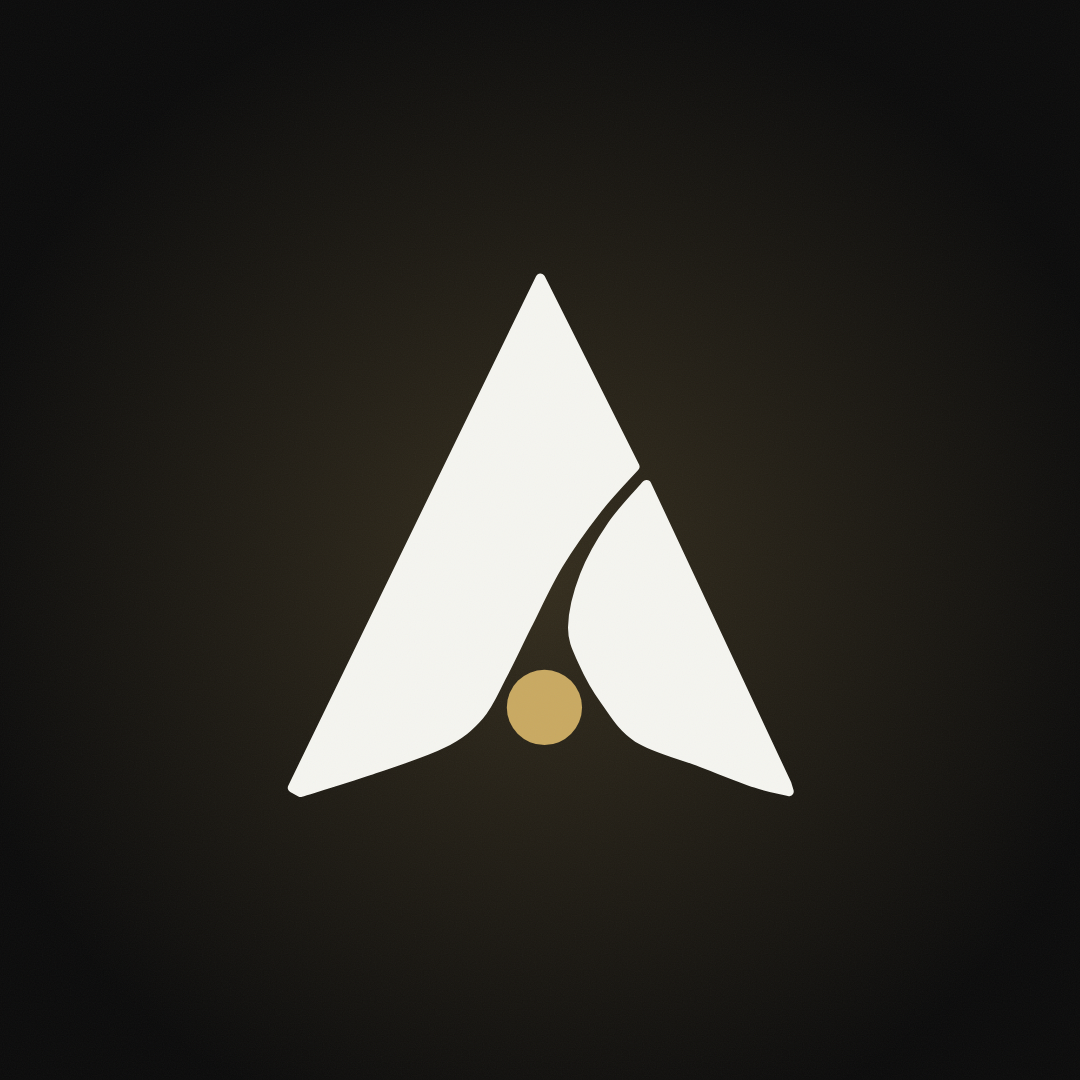
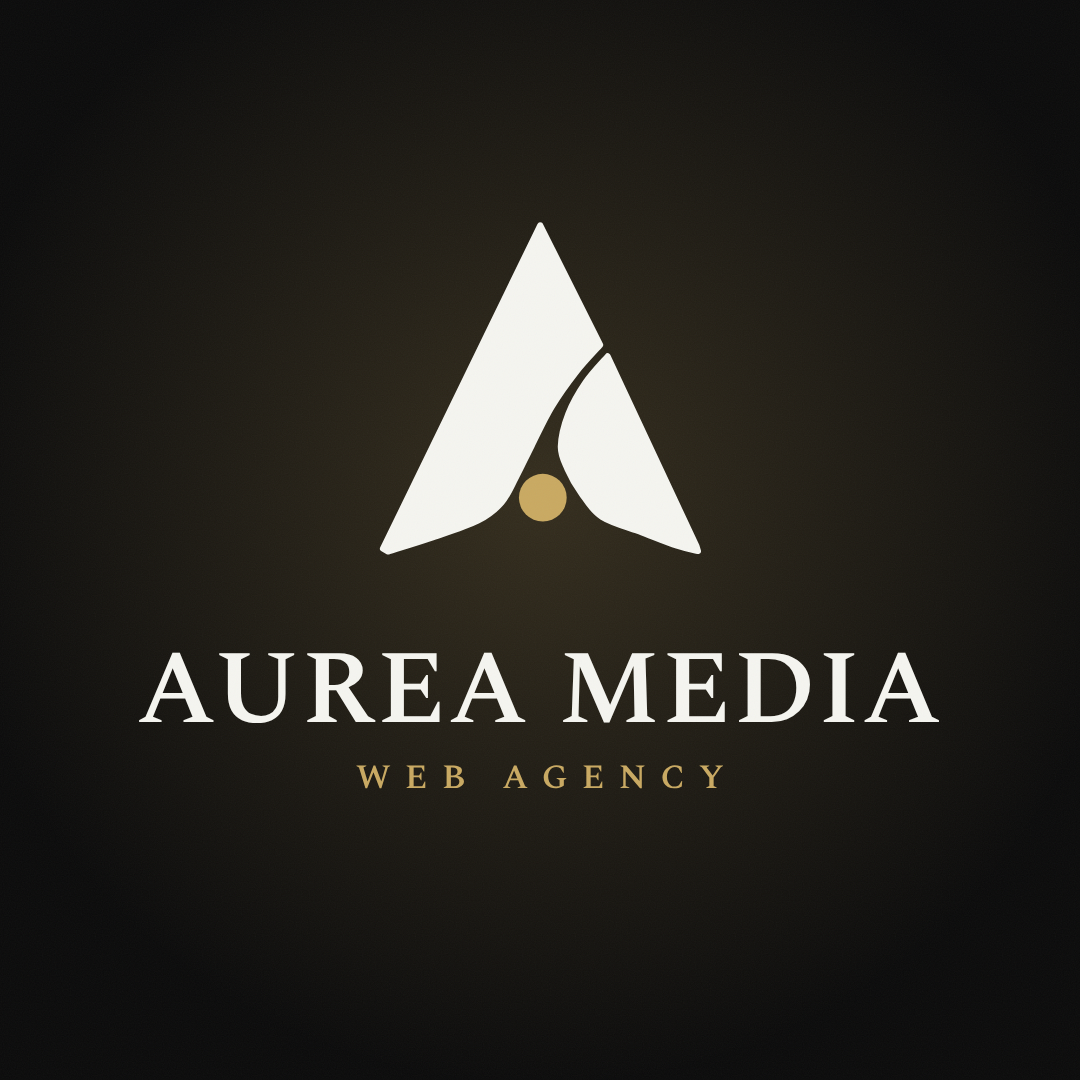
Kit réseaux sociaux : bannières LinkedIn refaites (note Google, 45 sites, Dual Tech), photo de profil avec le logotype AUREA MEDIA
Claude-Session: https://claude.ai/code/session_01QEecSGPaSS2i4pfHtVUcyd

Changed region(s): [[0.1222, 0.2139, 0.8861, 0.7333]]

diff --git a/aurea-media/reseaux-sociaux/sources/kit.html b/aurea-media/reseaux-sociaux/sources/kit.html
@@ -4,6 +4,12 @@
 /* Kit réseaux sociaux Aurea Media : chaque visuel est un bloc .v rendu à ses dimensions exactes (voir exporter-kit.js). */
 @font-face{font-family:"Bricolage";src:url(bricolage-grotesque.woff2) format("woff2");font-weight:200 800}
 @font-face{font-family:"Geist";src:url(geist.woff2) format("woff2");font-weight:100 900}
+@font-face{font-family:"Spectral SC";src:url(spectral-sc-600.woff2) format("woff2");font-weight:600}   /* police du logotype (Google Fonts, OFL) */
+.logotype{font-family:"Spectral SC",serif;font-weight:600;letter-spacing:.02em;color:var(--cream);white-space:nowrap}
+.baseline{font-family:"Spectral SC",serif;font-weight:600;letter-spacing:.42em;color:var(--gold);white-space:nowrap}
+.stat{display:flex;align-items:center;gap:18px}
+.stat b{font-family:Bricolage,sans-serif;font-weight:650;letter-spacing:-.03em;line-height:1}
+.persp{transform-style:preserve-3d}
 :root{--ink:#0A0A0A;--ink2:#121211;--ink3:#191917;--cream:#F5F5F0;--mute:#AEAEA8;--gold:#C9A961;--gold2:#B8934E;--line:rgba(245,245,240,.10);--ok:#2F9E6E}
 *{box-sizing:border-box}html,body{margin:0;background:#333}
 .v{position:relative;overflow:hidden;background:var(--ink);color:var(--cream);font-family:Geist,sans-serif;display:none}
@@ -34,12 +40,21 @@
 
 <!-- ============ PHOTO DE PROFIL (Instagram, Facebook, LinkedIn) 1080 x 1080 ============ -->
 <section class="v" id="avatar" style="width:1080px;height:1080px">
+  <div class="halo" style="width:1300px;height:1300px;left:-110px;top:-160px"></div>
+  <img class="mark" src="logo-monogramme-clair.svg" style="position:absolute;width:330px;left:375px;top:215px">
+  <div class="logotype" style="position:absolute;left:0;right:0;top:612px;text-align:center;font-size:104px">AUREA MEDIA</div>
+  <div class="baseline" style="position:absolute;left:0;right:0;top:752px;text-align:center;font-size:34px;padding-left:.42em">WEB AGENCY</div>
+  <div class="grain"></div>
+</section>
+<section class="v" id="avatar-monogramme" style="width:1080px;height:1080px">
   <div class="halo" style="width:1300px;height:1300px;left:-110px;top:-80px"></div>
   <img class="mark" src="logo-monogramme-clair.svg" style="position:absolute;width:520px;left:280px;top:262px">
   <div class="grain"></div>
 </section>
 <section class="v" id="avatar-clair" style="width:1080px;height:1080px;background:#F5F5F0">
-  <img class="mark" src="logo-monogramme-encre.svg" style="position:absolute;width:520px;left:280px;top:262px">
+  <img class="mark" src="logo-monogramme-encre.svg" style="position:absolute;width:330px;left:375px;top:215px">
+  <div class="logotype" style="position:absolute;left:0;right:0;top:612px;text-align:center;font-size:104px;color:#0A0A0A">AUREA MEDIA</div>
+  <div class="baseline" style="position:absolute;left:0;right:0;top:752px;text-align:center;font-size:34px;padding-left:.42em;color:#9a7a36">WEB AGENCY</div>
 </section>
 
 <!-- ============ FACEBOOK : COUVERTURE 1640 x 624 (zone sûre mobile : 280 à 1360 px) ============ -->
@@ -59,31 +74,40 @@
   <div class="grain"></div>
 </section>
 
-<!-- ============ LINKEDIN : BANNIÈRE DE PAGE ENTREPRISE 1128 x 191 ============ -->
-<section class="v" id="linkedin-page" style="width:1128px;height:191px">
-  <div class="halo" style="width:900px;height:900px;left:560px;top:-420px"></div>
-  <div style="position:absolute;left:300px;top:44px">
-    <div class="titre" style="font-size:38px">Des sites qui <span class="or">travaillent</span> pendant que vous travaillez.</div>
-    <div class="mute" style="font-size:17px;margin-top:12px">Création de sites vitrines et e-commerce sur mesure · Paris · depuis 2021</div>
+<!-- ============ LINKEDIN : BANNIÈRE DU PROFIL D'ALEXANDRE 1584 x 396 (photo en bas à gauche : x < 470 laissé libre) ============ -->
+<section class="v" id="linkedin-profil" style="width:1584px;height:396px">
+  <div class="halo" style="width:1100px;height:1100px;left:960px;top:-360px;background:radial-gradient(circle,rgba(47,109,246,.28),rgba(47,109,246,0) 62%)"></div>
+  <div class="halo" style="width:1000px;height:1000px;left:220px;top:-520px"></div>
+  <div style="position:absolute;left:500px;top:52px;width:560px">
+    <div class="titre" style="font-size:50px">Des sites qui vous <span class="or">apportent</span> des clients.</div>
+    <div style="display:flex;gap:16px;margin-top:30px">
+      <div class="stat" style="border:1px solid rgba(201,169,97,.35);background:rgba(201,169,97,.07);border-radius:22px;padding:16px 22px"><svg viewBox="0 0 48 48" style="width:44px;height:44px;flex:none"><path fill="#FFC107" d="M43.6 20.5H42V20H24v8h11.3C33.7 32.7 29.2 36 24 36c-6.6 0-12-5.4-12-12s5.4-12 12-12c3.1 0 5.8 1.2 7.9 3.1l5.7-5.7C34 6.1 29.3 4 24 4 12.9 4 4 12.9 4 24s8.9 20 20 20 20-8.9 20-20c0-1.3-.1-2.4-.4-3.5z"/><path fill="#FF3D00" d="M6.3 14.7l6.6 4.8C14.7 15.1 19 12 24 12c3.1 0 5.8 1.2 7.9 3.1l5.7-5.7C34 6.1 29.3 4 24 4 16.3 4 9.7 8.3 6.3 14.7z"/><path fill="#4CAF50" d="M24 44c5.2 0 9.9-2 13.4-5.2l-6.2-5.2C29.2 35.1 26.7 36 24 36c-5.2 0-9.6-3.3-11.3-7.9l-6.5 5C9.5 39.6 16.2 44 24 44z"/><path fill="#1976D2" d="M43.6 20.5H42V20H24v8h11.3c-.8 2.2-2.2 4.2-4.1 5.6l6.2 5.2C37 39.2 44 34 44 24c0-1.3-.1-2.4-.4-3.5z"/></svg><div><div style="display:flex;align-items:baseline;gap:10px"><b style="font-size:46px">4,9</b><span class="etoiles" style="font-size:24px">★★★★★</span></div><div class="mute" style="font-size:16px;margin-top:6px">39 avis Google</div></div></div>
+      <div class="stat" style="border:1px solid var(--line);background:rgba(245,245,240,.04);border-radius:22px;padding:16px 24px"><div><b class="or" style="font-size:46px">45+</b><div class="mute" style="font-size:16px;margin-top:6px">sites livrés depuis 2021</div></div></div>
+    </div>
   </div>
-  <div class="tel" style="left:1000px;top:40px;width:74px;border-radius:18px;padding:5px"><img src="/aurea/maquette/assets/realisations/laurence-paoli-mobile.webp" style="border-radius:14px"></div>
+  <div style="position:absolute;left:1090px;top:44px;width:560px;perspective:1400px">
+    <div class="laptop persp" style="position:relative;width:440px;transform:rotateY(-16deg) rotateX(4deg)"><div class="ecran" style="border-radius:12px 12px 0 0;box-shadow:0 0 0 2px #2b2b29,0 30px 80px rgba(47,109,246,.35)"><img src="/aurea/maquette/assets/realisations/dual-tech.webp"></div><div class="base" style="height:10px"></div></div>
+  </div>
+  <div class="tel" style="left:1440px;top:118px;width:104px;border-radius:24px;padding:6px"><img src="/aurea/maquette/assets/realisations/dual-tech-mobile.webp" style="border-radius:19px"></div>
+  <div style="position:absolute;left:1112px;top:350px;font-size:14px;letter-spacing:.14em;text-transform:uppercase" class="mute">Dual Tech · réalisé par Aurea Media</div>
   <div class="grain"></div>
 </section>
 
-<!-- ============ LINKEDIN : BANNIÈRE DU PROFIL D'ALEXANDRE 1584 x 396 (photo en bas à gauche) ============ -->
-<section class="v" id="linkedin-profil" style="width:1584px;height:396px">
-  <div class="halo" style="width:1300px;height:1300px;left:700px;top:-640px"></div>
-  <div style="position:absolute;left:560px;top:70px;width:560px">
-    <div class="sur">Aurea Media · Agence web</div>
-    <div class="titre" style="font-size:46px;margin-top:16px">Je crée des sites qui <span class="or">rapportent</span> des clients.</div>
-    <div style="display:flex;gap:10px;margin-top:22px;font-size:16px;flex-wrap:wrap">
-      <span class="chip"><svg><use href="#i-window"/></svg>Sites vitrines</span>
-      <span class="chip"><svg><use href="#i-bag"/></svg>E-commerce</span>
-      <span class="chip"><svg><use href="#i-pen"/></svg>Identité visuelle</span>
+<!-- ============ LINKEDIN : BANNIÈRE DE PAGE ENTREPRISE 1128 x 191 (logo de la page en bas à gauche : x < 190 laissé libre) ============ -->
+<section class="v" id="linkedin-page" style="width:1128px;height:191px">
+  <div class="halo" style="width:800px;height:800px;left:680px;top:-300px;background:radial-gradient(circle,rgba(47,109,246,.26),rgba(47,109,246,0) 62%)"></div>
+  <div class="halo" style="width:700px;height:700px;left:120px;top:-420px"></div>
+  <div style="position:absolute;left:220px;top:20px;width:520px">
+    <div class="titre" style="font-size:31px">Des sites qui vous <span class="or">apportent</span><br>des clients.</div>
+    <div style="display:flex;gap:12px;margin-top:14px;font-size:16px">
+      <span class="chip" style="padding:9px 16px;border-color:rgba(201,169,97,.35);background:rgba(201,169,97,.07)"><svg viewBox="0 0 48 48" style="width:22px;height:22px;flex:none"><path fill="#FFC107" d="M43.6 20.5H42V20H24v8h11.3C33.7 32.7 29.2 36 24 36c-6.6 0-12-5.4-12-12s5.4-12 12-12c3.1 0 5.8 1.2 7.9 3.1l5.7-5.7C34 6.1 29.3 4 24 4 12.9 4 4 12.9 4 24s8.9 20 20 20 20-8.9 20-20c0-1.3-.1-2.4-.4-3.5z"/><path fill="#FF3D00" d="M6.3 14.7l6.6 4.8C14.7 15.1 19 12 24 12c3.1 0 5.8 1.2 7.9 3.1l5.7-5.7C34 6.1 29.3 4 24 4 16.3 4 9.7 8.3 6.3 14.7z"/><path fill="#4CAF50" d="M24 44c5.2 0 9.9-2 13.4-5.2l-6.2-5.2C29.2 35.1 26.7 36 24 36c-5.2 0-9.6-3.3-11.3-7.9l-6.5 5C9.5 39.6 16.2 44 24 44z"/><path fill="#1976D2" d="M43.6 20.5H42V20H24v8h11.3c-.8 2.2-2.2 4.2-4.1 5.6l6.2 5.2C37 39.2 44 34 44 24c0-1.3-.1-2.4-.4-3.5z"/></svg><b style="font-family:Bricolage;font-size:20px">4,9</b><span class="etoiles">★★★★★</span><span class="mute">39 avis</span></span>
+      <span class="chip" style="padding:9px 16px"><b class="or" style="font-family:Bricolage;font-size:20px">45+</b><span class="mute">sites livrés</span></span>
     </div>
   </div>
-  <div class="laptop" style="left:1150px;top:78px;width:330px"><div class="ecran" style="border-radius:10px 10px 0 0"><img src="/aurea/maquette/assets/realisations/havel-trading.webp"></div><div class="base" style="height:9px"></div></div>
-  <div class="tel" style="left:1420px;top:150px;width:96px;border-radius:24px;padding:6px"><img src="/aurea/maquette/assets/realisations/normande-isolation-mobile.webp" style="border-radius:19px"></div>
+  <div style="position:absolute;left:770px;top:22px;width:360px;perspective:1000px">
+    <div class="laptop persp" style="position:relative;width:290px;transform:rotateY(-16deg) rotateX(4deg)"><div class="ecran" style="border-radius:8px 8px 0 0;padding:2.4% 2.4% 0"><img src="/aurea/maquette/assets/realisations/dual-tech.webp"></div><div class="base" style="height:7px"></div></div>
+  </div>
+  <div class="tel" style="left:1020px;top:58px;width:64px;border-radius:15px;padding:4px"><img src="/aurea/maquette/assets/realisations/dual-tech-mobile.webp" style="border-radius:12px"></div>
   <div class="grain"></div>
 </section>
 

diff --git a/aurea-media/reseaux-sociaux/sources/exporter-kit.js b/aurea-media/reseaux-sociaux/sources/exporter-kit.js
@@ -1,7 +1,7 @@
 // Exporte chaque visuel du kit en PNG à ses dimensions exactes. Usage : node exporter-kit.js [dossier_sortie]
 const { chromium } = require('playwright'); const fs = require('fs'); const path = require('path');
 const ICI = __dirname, RACINE = path.join(ICI, '../..'), OUT = process.argv[2] || path.join(ICI, '../export');
-const IDS = ['avatar', 'avatar-clair', 'facebook-couverture', 'linkedin-page', 'linkedin-profil', 'une-realisations', 'une-avis', 'une-tarifs', 'une-methode', 'une-videos', 'une-contact', 'post-1-presentation', 'post-2-realisations', 'post-3-gaspard'];
+const IDS = ['avatar', 'avatar-monogramme', 'avatar-clair', 'facebook-couverture', 'linkedin-page', 'linkedin-profil', 'une-realisations', 'une-avis', 'une-tarifs', 'une-methode', 'une-videos', 'une-contact', 'post-1-presentation', 'post-2-realisations', 'post-3-gaspard'];
 const types = { '.html': 'text/html', '.svg': 'image/svg+xml', '.woff2': 'font/woff2', '.webp': 'image/webp', '.png': 'image/png' };
 (async () => {
   fs.mkdirSync(OUT, { recursive: true });

diff --git a/aurea-media/reseaux-sociaux/TEXTES-PROFILS.md b/aurea-media/reseaux-sociaux/TEXTES-PROFILS.md
@@ -11,14 +11,14 @@ Les textes sont prêts à copier. Les limites de caractères sont indiquées ent
 
 | Réseau | Emplacement | Fichier | Dimensions |
 |---|---|---|---|
-| Instagram, Facebook, LinkedIn | Photo de profil | `avatar.png` | 1080 × 1080 |
+| Instagram, Facebook, LinkedIn | Photo de profil (monogramme et AUREA MEDIA) | `avatar.png` | 1080 × 1080 |
 | Facebook | Photo de couverture | `facebook-couverture.png` | 1640 × 624 |
 | LinkedIn | Bannière de la page entreprise | `linkedin-page.png` | 1128 × 191 |
 | LinkedIn | Bannière de ton profil personnel | `linkedin-profil.png` | 1584 × 396 |
 | Instagram | Couvertures des stories à la une | `une-*.png` | 1080 × 1920 |
 | Les trois | Premières publications | `post-1`, `post-2`, `post-3` | 1080 × 1350 |
 
-`avatar-clair.png` est une variante sur fond clair, à garder en réserve.
+`avatar-clair.png` (fond clair) et `avatar-monogramme.png` (monogramme seul, plus lisible en très petit) sont des variantes à garder en réserve.
 
 ---
 
